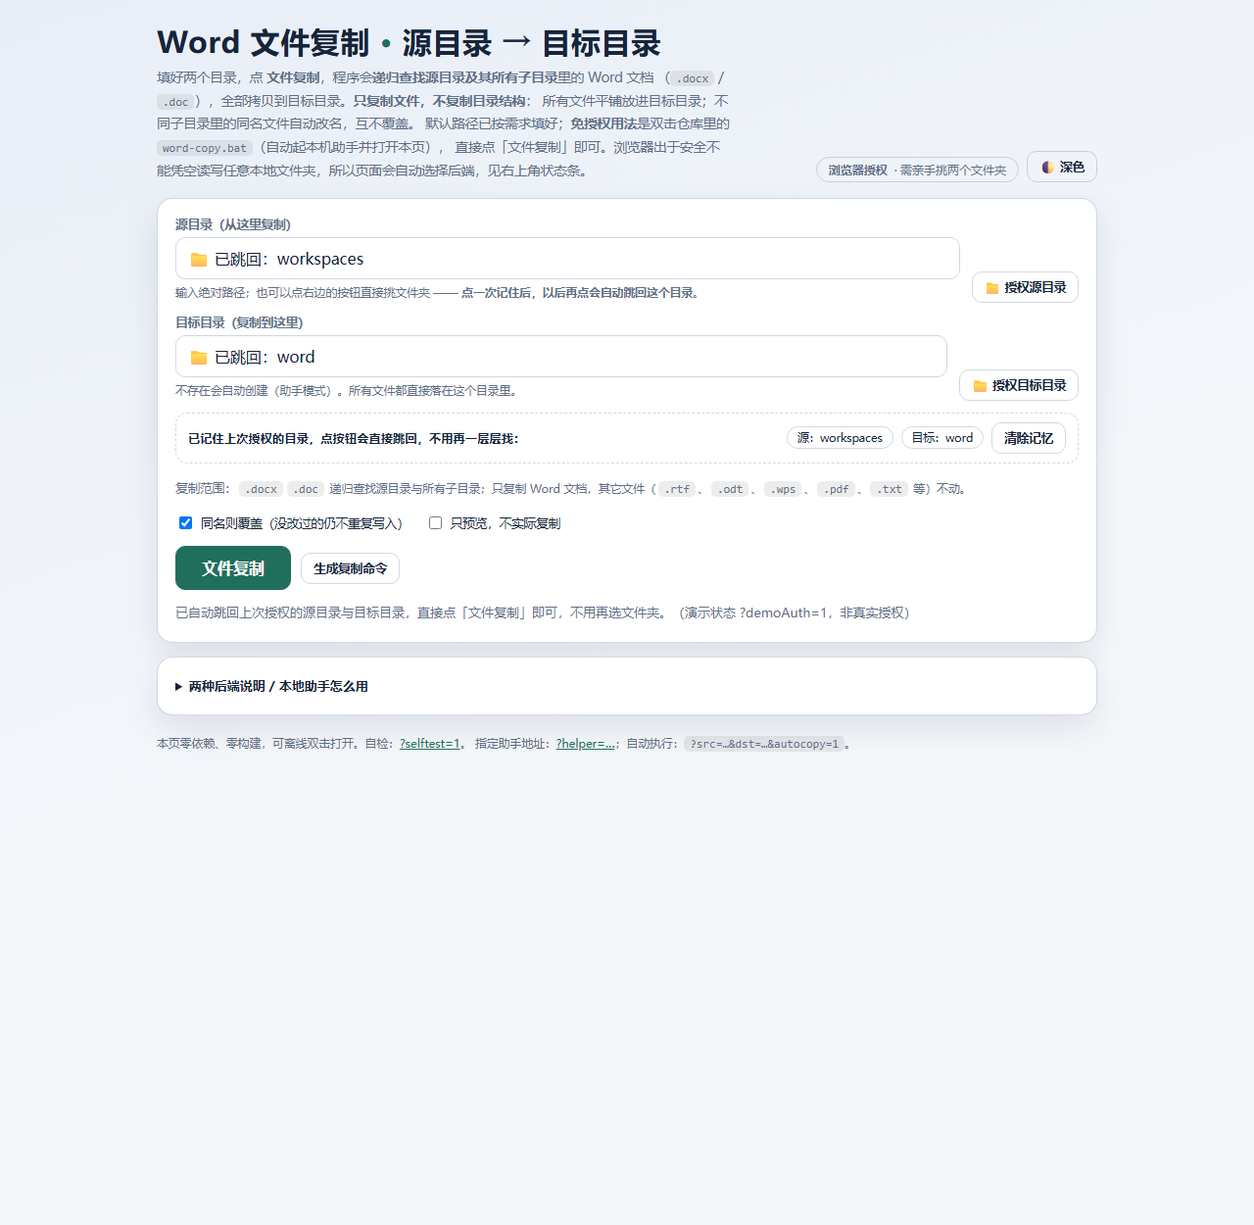
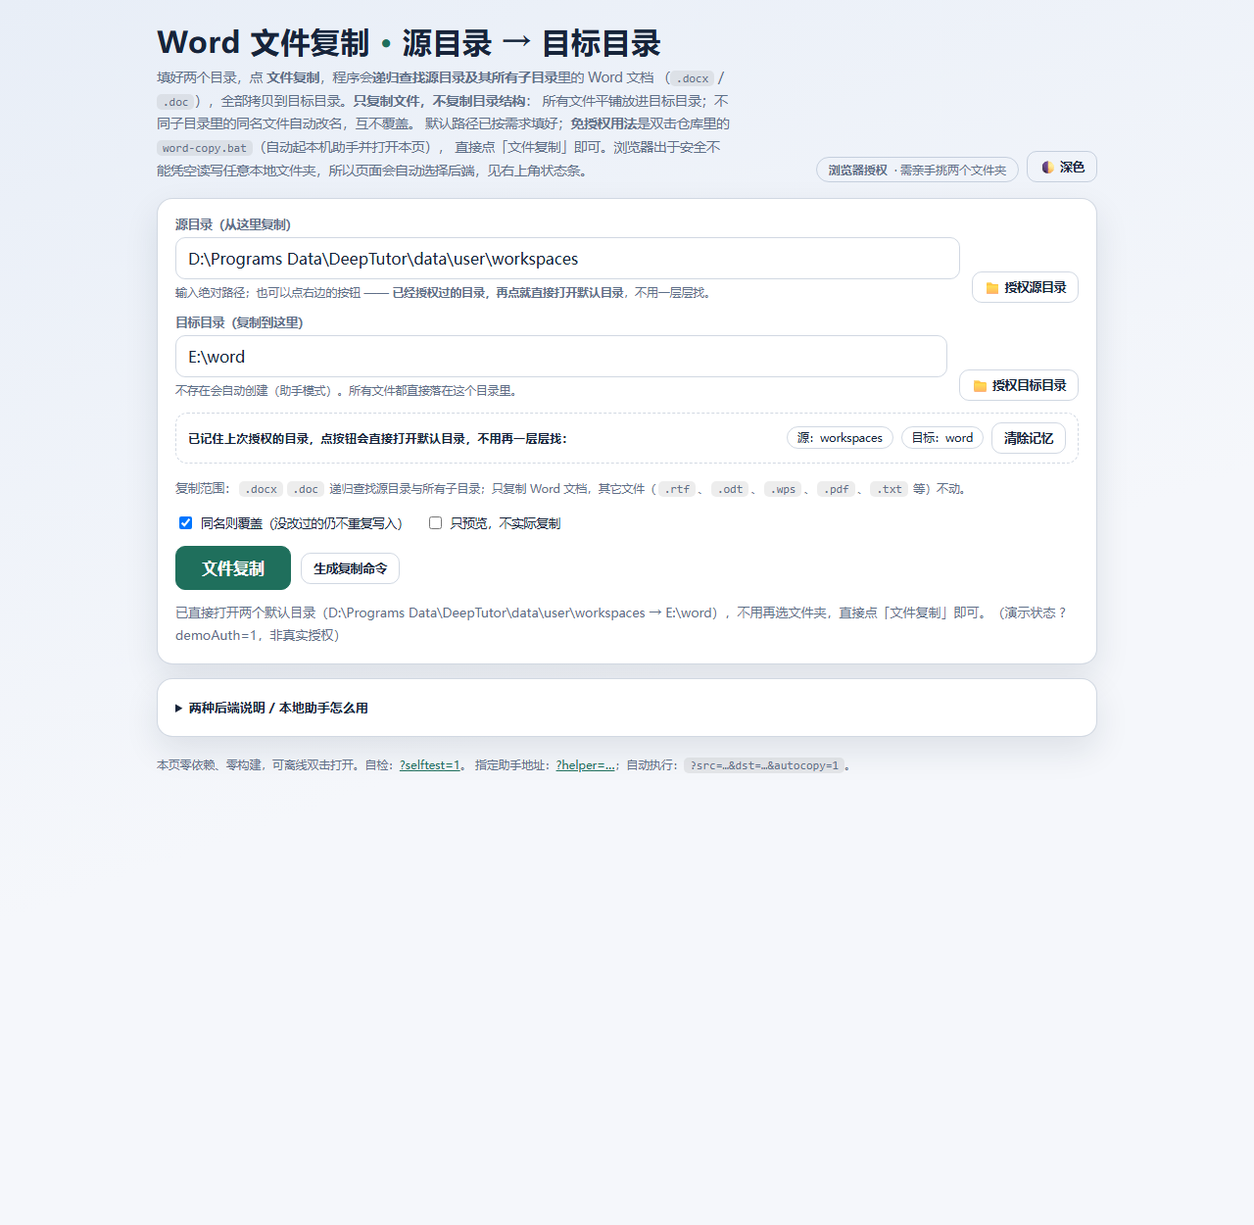
fix(word-copy): 点授权按钮必须有反应（修 file:// 下 IndexedDB 永不回调）
「点击授权目录按钮没有反应」—— 本机复现出两个真问题：

1) file:// 双击打开页面时（README 推荐的主用法），Chromium 的 IndexedDB open
   永远不回调。老代码把「记住目录」的存储写在选完目录后的主链路上，界面更新要等
   idbPut 落定，于是选完文件夹后什么都不发生 —— 看起来就是「点了没反应」。
   - 现在选完目录先更新句柄、输入框与状态条，再顺手写存储（失败/超时都不影响本次）
   - 所有 idb 调用带 1.2s 超时（open/get/put/delete 与 onblocked），restoreAuth
     兜底吞掉未处理拒绝，页面不会卡在「等待操作。」

2) 上一版把「从没授权过」时的点击改成只出说明、不弹选择器，用户感知同样是「没反应」。
   现在点按钮立刻弹系统选择器（浏览器安全上第一次必须亲手授权，无法凭空按路径打开），
   同时把默认目录与「双击 word-copy.bat 免授权直达」的做法标出来。

3) 顺带修一个同类手势问题：记住的目录失效时，代码在 await 之后再调 showDirectoryPicker，
   已脱离用户手势必然被浏览器拒（SecurityError: Must be handling a user gesture）。
   现在给说明 + 「重新选择文件夹」入口，点入口时才是新手势；取消选择后的状态条也
   不再停留在「选择器已打开」。

验证：页内自检 86/86（新增「存储卡住时选完目录界面照样更新」的回归防线 —— 把
indexedDB 换成永不回调的假对象，选完目录仍立刻更新；失效目录走说明 + 新手势 2 项）；
tools\word-copy-check.ps1 58/58（新增存储超时与「先更新界面再写存储」的结构断言）。
改前/改后同场景截图与说明态画面已更新。

diff --git a/word-copy.html b/word-copy.html
@@ -191,9 +191,9 @@ a{color:var(--accent)}
       所以改用「大小相同 + 目标不比源旧」。取消「同名则覆盖」后同名文件一律跳过。</p>
     <p><b>点授权按钮直接打开默认目录</b>：已经授权过的目录会被记住（存在浏览器 IndexedDB 里），
       以后再点同一个按钮<b>直接打开默认目录</b>（就是输入框里那个路径，或它下面的子目录），不再弹选择器。
-      还没授权过时，浏览器不允许网页按路径直接打开本地文件夹 —— 页面会先把两个默认目录和「一步免授权」的做法摆出来
-      （双击 <code>word-copy.bat</code>），手动选择入口也留在提示里，不让你被直接丢进系统选择框。
-      记住的目录被移动或权限被收回，会自动退回系统选择器重选一次。想主动换目录：按住 <kbd>Shift</kbd> 再点按钮，
+      第一次点还是会弹系统选择器 —— 浏览器安全上不允许网页凭空按路径打开文件夹，必须亲手授权一次；
+      页面会同时把默认目录和「双击 <code>word-copy.bat</code> 免授权直达」的做法标出来，选完目录界面立刻更新，
+      不会卡在存储上。记住的目录被移动或权限被收回，会自动退回系统选择器重选一次。想主动换目录：按住 <kbd>Shift</kbd> 再点按钮，
       或点记忆条上的「清除记忆」。</p>
   </details>
 
@@ -461,36 +461,50 @@ function retryDetect(){
 
 /* ---------- 浏览器授权模式（递归查找 Word 文件，平铺复制） ---------- */
 /* 授权过的目录记在 IndexedDB 里：下次点同一个按钮会自动跳回那个目录，
-   不用再在系统选择器里一层层找。选择器本身也带上次目录作为起点。 */
-var IDB_NAME = 'word-copy-auth', IDB_STORE = 'handles';
+   不用再在系统选择器里一层层找。选择器本身也带上次目录作为起点。
+   注意：file:// 双击打开时 Chromium 的 IndexedDB 可能永远不回调，
+   所以所有存储调用都必须带超时，且界面更新绝不能等存储落定。 */
+var IDB_NAME = 'word-copy-auth', IDB_STORE = 'handles', IDB_TIMEOUT = 1200;
 function idb(mode){
   return new Promise(function(res, rej){
     if (!window.indexedDB) return rej(new Error('no indexeddb'));
-    var r = indexedDB.open(IDB_NAME, 1);
+    var settled = false;
+    var timer = setTimeout(function(){
+      if (settled) return;
+      settled = true; rej(new Error('idb-timeout'));   /* file:// 下常见：不回调，超时后走「不记忆」路径 */
+    }, IDB_TIMEOUT);
+    function ok(db){ if (settled) return; settled = true; clearTimeout(timer); res(db); }
+    function bad(e){ if (settled) return; settled = true; clearTimeout(timer); rej(e || new Error('idb open failed')); }
+    var r;
+    try { r = indexedDB.open(IDB_NAME, 1); } catch (e) { return bad(e); }
     r.onupgradeneeded = function(){ if (!r.result.objectStoreNames.contains(IDB_STORE)) r.result.createObjectStore(IDB_STORE); };
-    r.onsuccess = function(){ res(r.result); };
-    r.onerror = function(){ rej(r.error || new Error('idb open failed')); };
+    r.onsuccess = function(){ ok(r.result); };
+    r.onerror = function(){ bad(r.error); };
+    r.onblocked = function(){ bad(new Error('idb blocked')); };
   });
 }
+function withTimeout(p, ms){
+  return Promise.race([p, new Promise(function(res, rej){ setTimeout(function(){ rej(new Error('idb-timeout')); }, ms); })]);
+}
 function idbPut(key, val){
-  return idb().then(function(db){ return new Promise(function(res, rej){
+  return withTimeout(idb().then(function(db){ return new Promise(function(res, rej){
     var tx = db.transaction(IDB_STORE, 'readwrite');
     tx.objectStore(IDB_STORE).put(val, key);
     tx.oncomplete = function(){ res(true); }; tx.onerror = function(){ rej(tx.error); };
-  }); });
+  }); }), IDB_TIMEOUT);
 }
 function idbGet(key){
-  return idb().then(function(db){ return new Promise(function(res, rej){
+  return withTimeout(idb().then(function(db){ return new Promise(function(res, rej){
     var rq = db.transaction(IDB_STORE, 'readonly').objectStore(IDB_STORE).get(key);
     rq.onsuccess = function(){ res(rq.result || null); }; rq.onerror = function(){ rej(rq.error); };
-  }); });
+  }); }), IDB_TIMEOUT);
 }
 function idbDel(key){
-  return idb().then(function(db){ return new Promise(function(res, rej){
+  return withTimeout(idb().then(function(db){ return new Promise(function(res, rej){
     var tx = db.transaction(IDB_STORE, 'readwrite');
     tx.objectStore(IDB_STORE).delete(key);
     tx.oncomplete = function(){ res(true); }; tx.onerror = function(){ rej(tx.error); };
-  }); });
+  }); }), IDB_TIMEOUT);
 }
 function askPermission(handle, mode){
   if (!handle.queryPermission) return Promise.resolve('granted');
@@ -554,14 +568,20 @@ function pickDir(which){
         }
       });
     }).catch(function(){
-      setStatus('上次记的目录已经不可用（被移动或权限被收回），重新选一个。');
-      return openPicker(which, mode, null);
+      /* 记住的目录不可用：这里已经不在用户手势里了，直接调选择器会被浏览器拒绝，
+         所以给说明 + 手选入口（点入口时才是新手势），并说清原因 */
+      state.pendingPick = which;
+      showHelperHint('上次记住的目录已经不可用，需要你重新选一次：');
+      $('hintManual').hidden = false;
+      $('hintManual').textContent = '重新选择' + fieldLabel(which) + '文件夹';
+      setStatus('上次记的' + fieldLabel(which) + '目录已经不可用（被移动或权限被收回），点提示里的「重新选择' +
+        fieldLabel(which) + '文件夹」重选一次；默认目录是 ' + want + '。');
+      return Promise.resolve();
     });
   }
-  /* 还没授权过：浏览器不能按路径直接打开本地文件夹（安全限制），
-     先把默认目录与「一步免授权」的做法说清楚，手动选择入口留在提示里。 */
+  /* 还没授权过：立刻弹选择器让点击有反应，同时把默认目录与「一步免授权」的做法摆出来 */
   showDefaultNotice(which, want);
-  return Promise.resolve();
+  return openPicker(which, mode, null);
 }
 /* 默认目录：?src= / ?dst= 覆盖，否则用页面内置的默认值 */
 function defaultDirFor(which){ return Q.get(which) || (which === 'src' ? DEFAULT_SRC : DEFAULT_DST); }
@@ -578,30 +598,37 @@ function handleReachesDefault(handle, want){
   if (!name) return false;
   return normPath(want).split('/').some(function(seg){ return seg.toLowerCase() === String(name).toLowerCase(); });
 }
-/* 没授权过时点授权按钮：不直接弹系统选择框，先说明默认目录与免授权一步做法，手选入口放在提示里 */
+/* 没授权过时点授权按钮：立刻弹选择器（点击必须有反应），同时把默认目录与免授权一步做法摆出来 */
 function showDefaultNotice(which, want){
   state.pendingPick = which;
-  showHelperHint('浏览器不能直接按路径打开本地文件夹；先启动本机助手就能直接用默认目录：');
+  showHelperHint('浏览器不能凭空按路径打开本地文件夹；想以后点一下就直达默认目录，先用一次本机助手：');
   $('hintManual').hidden = false;
-  $('hintManual').textContent = '仍然手动选择' + fieldLabel(which) + '文件夹';
-  setStatus('默认' + fieldLabel(which) + '目录：' + want + '。浏览器不允许网页按路径打开文件夹；' +
-    '双击上面的 word-copy.bat（或先启动本机助手）后，再点这个按钮就会直接用默认目录 —— 不授权、不弹选择框。' +
-    '想现在就手选，点提示里的「仍然手动选择' + fieldLabel(which) + '文件夹」。');
+  $('hintManual').textContent = '重新打开' + fieldLabel(which) + '选择器';
+  setStatus('默认' + fieldLabel(which) + '目录：' + want + '。系统选择器已打开，请在里面选到它（选过一次后就会被记住，' +
+    '以后点这个按钮直接打开默认目录、不再弹选择器）。更省事的做法：双击上面的 word-copy.bat 起本机助手，' +
+    '两个默认目录免授权直接用。选错了想重选，点提示里的「重新打开' + fieldLabel(which) + '选择器」。');
   try { $('helperHint').scrollIntoView({ block: 'nearest' }); } catch (e) {}
 }
 function openPicker(which, mode, startHandle){
   var opt = { id: 'wc-' + which, mode: mode };
   if (startHandle) opt.startIn = startHandle;      /* 选择器从上次那个目录开始 */
   return window.showDirectoryPicker(opt).then(function(h){
+    /* 界面先更新：file:// 下 IndexedDB 可能不回调，绝不让「点了没反应」回来 */
     state[which + 'Handle'] = h;
-    return remember(which, h).then(function(){
-      $('hintManual').hidden = true;
-      $(which).value = '📁 已授权：' + (h.name || '所选文件夹');
-      setStatus('已授权' + (which === 'src' ? '源' : '目标') + '目录：' + (h.name || '') +
-        '，已记住，下次点这个按钮会直接打开它（默认目录就是它时，输入框会保留完整路径）。');
-    });
+    $('hintManual').hidden = true;
+    $(which).value = '📁 已授权：' + (h.name || '所选文件夹');
+    setStatus('已授权' + fieldLabel(which) + '目录：' + (h.name || '') +
+      '，现在可以点「文件复制」。' + (h === startHandle ? '' : '下次点这个按钮会直接打开它（默认目录就是它时，输入框会保留完整路径）。'));
+    return remember(which, h).catch(function(){ /* 存不了也不影响本次使用（file:// 常见） */ });
   }).catch(function(e){
-    if (e && e.name !== 'AbortError') setStatus('授权失败：' + e.message, true);
+    if (e && e.name === 'AbortError'){
+      /* 用户按了取消：说明别留在「选择器已打开」上，默认目录与免授权做法仍要说清，入口保持可用 */
+      var wd = targetDirFor(which);
+      setStatus('已取消选择。默认' + fieldLabel(which) + '目录是 ' + wd + '；想再选一次点提示里的「' + $('hintManual').textContent + '」，' +
+        '不想选文件夹就双击 word-copy.bat 起本机助手，两个默认目录免授权直接用。');
+      return;
+    }
+    setStatus('授权失败：' + e.message, true);
   });
 }
 function restoreAuth(){
@@ -619,7 +646,9 @@ function restoreAuth(){
       renderRemembered();
       authRestored = !!(state.srcHandle && state.dstHandle);
       if (authRestored && state.mode !== 'helper') browserModeStatus();
-    });
+    })
+    /* 兜底：file:// 下存储链路若出现未处理拒绝，这里必须吞掉，不能让页面停在「等待操作。」什么都不发生 */
+    .catch(function(){ });
 }
 var authRestored = false;
 function browserModeStatus(){
@@ -771,12 +800,10 @@ $('memClear').addEventListener('click', function(){
 });
 $('memSrc').addEventListener('click', function(){ state.forcePick.src = true; pickDir('src'); });
 $('memDst').addEventListener('click', function(){ state.forcePick.dst = true; pickDir('dst'); });
-/* 没授权过时点授权按钮只给说明，手选入口在这里 */
+/* 提示里的「重新选择/重新打开」入口：点了才开选择器（这是新手势，不会被浏览器拒），不带可能失效的旧句柄 */
 $('hintManual').addEventListener('click', function(){
   var which = state.pendingPick || 'src';
-  var remembered = state.remembered[which];
-  if (remembered && remembered.__demo) remembered = null;
-  return openPicker(which, which === 'dst' ? 'readwrite' : 'read', remembered);
+  return openPicker(which, which === 'dst' ? 'readwrite' : 'read', null);
 });
 $('hintRetry').addEventListener('click', retryDetect);
 $('hintCopy').addEventListener('click', function(){
@@ -961,6 +988,7 @@ function selftest(){
 
   var granted = { name: 'word', kind: 'dir', queryPermission: function(){ return Promise.resolve('granted'); } };
   var hadPicker = window.showDirectoryPicker, pickedCalled = 0;
+  var hadIDB = window.indexedDB;
   window.showDirectoryPicker = function(){ pickedCalled++; return Promise.reject(new DOMException('cancel', 'AbortError')); };
   var denied = { name: 'gone', kind: 'dir', queryPermission: function(){ return Promise.resolve('prompt'); },
     requestPermission: function(){ return Promise.resolve('denied'); } };
@@ -1007,22 +1035,29 @@ function selftest(){
     state.remembered.dst = null; state.dstHandle = null; state.forcePick.src = false;
     state.remembered.src = null; state.srcHandle = null; $('src').value = DEFAULT_SRC;
     hideHelperHint(); $('hintManual').hidden = true; pickedCalled = 0;
-    return Ta('没授权过时点授权按钮不直接弹选择框', pickDir('src').then(function(){ return pickedCalled === 0; }));
+    return Ta('没授权过时点授权按钮立刻弹选择器（点击必有反应）', pickDir('src').then(function(){ return pickedCalled === 1; }));
   })
   .then(function(){
-    return Ta('没授权过时说明默认目录与免授权一步做法', Promise.resolve().then(function(){
+    return Ta('没授权过时同时说明默认目录与免授权一步做法', Promise.resolve().then(function(){
       var s = $('status').textContent;
       return s.indexOf(DEFAULT_SRC) >= 0 && s.indexOf('word-copy.bat') >= 0 && state.pendingPick === 'src';
     }));
   })
   .then(function(){
-    return Ta('说明里给出手动选择入口', Promise.resolve().then(function(){
+    return Ta('说明里保留手动选择入口', Promise.resolve().then(function(){
       return $('hintManual').hidden === false && $('hintManual').textContent.indexOf('源') >= 0;
     }));
   })
   .then(function(){
-    return Ta('点手动选择入口才弹系统选择框', Promise.resolve().then(function(){
-      pickedCalled = 0; $('hintManual').click(); return pickedCalled === 1;
+    /* 回归防线：file:// 下 IndexedDB 的 open 可能永远不回调 —— 选完目录界面必须先更新，不等存储 */
+    var hung = { open: function(){ return {}; } };   /* onsuccess/onerror 都不触发，模拟 file:// 卡死 */
+    try { Object.defineProperty(window, 'indexedDB', { value: hung, configurable: true, writable: true }); } catch (e) {}
+    window.showDirectoryPicker = function(){ return Promise.resolve({ name: '合同', kind: 'dir' }); };
+    return Ta('存储卡住时选完目录界面照样更新', pickDir('src').then(function(){
+      Object.defineProperty(window, 'indexedDB', { value: hadIDB, configurable: true, writable: true });
+      window.showDirectoryPicker = function(){ pickedCalled++; return Promise.reject(new DOMException('cancel', 'AbortError')); };
+      state.srcHandle = null; state.remembered.src = null;
+      return $('src').value.indexOf('已授权') >= 0 && $('status').textContent.indexOf('合同') >= 0;
     }));
   })
   .then(function(){
@@ -1034,8 +1069,16 @@ function selftest(){
   .then(function(){
     state.dstHandle = null;
     state.remembered.src = denied; state.forcePick.src = false; pickedCalled = 0;
-    return Ta('记住的目录不可用时回到重新选择', pickDir('src').then(function(){
-      return pickedCalled === 1 && $('status').textContent.indexOf('重新选一个') >= 0;
+    hideHelperHint(); $('hintManual').hidden = true;
+    return Ta('记住的目录不可用时给出重选说明（不在手势里不硬弹选择器）', pickDir('src').then(function(){
+      var s = $('status').textContent;
+      return pickedCalled === 0 && s.indexOf('不可用') >= 0 && s.indexOf('重新选择源文件夹') >= 0 &&
+        $('hintManual').hidden === false && $('hintManual').textContent.indexOf('重新选择源文件夹') >= 0;
+    }));
+  })
+  .then(function(){
+    return Ta('不可用时点重选入口才弹选择器', Promise.resolve().then(function(){
+      pickedCalled = 0; $('hintManual').click(); return pickedCalled === 1;
     }));
   })
   .then(function(){
@@ -1104,10 +1147,12 @@ window.wordcopy = {
     $('dst').value = DEFAULT_DST;
     setStatus('已直接打开两个默认目录（' + DEFAULT_SRC + ' → ' + DEFAULT_DST + '），不用再选文件夹，直接点「文件复制」即可。（演示状态 ?demoAuth=1，非真实授权）');
   }, 300);
-  /* ?demoNotice=1：展示「还没授权过、点授权按钮」时的说明态（不探测助手、不弹选择框、不写入） */
+  /* ?demoNotice=1：展示「还没授权过、点授权按钮」时的说明态（不探测助手、不弹选择框、不写入）。
+     真点击时系统选择器会同时打开；演示态只画说明部分，并在句尾注明。 */
   if (Q.get('demoNotice') === '1') setTimeout(function(){
     state.mode = 'browser'; setBackend();
     showDefaultNotice('src', defaultDirFor('src'));
+    $('status').textContent += '（演示状态 ?demoNotice=1：真实点击时系统选择器会同时打开）';
   }, 300);
   if (Q.get('cmd') === '1') setTimeout(function(){ $('cmdBtn').click(); }, 300);
   if (Q.get('selftest') === '1') setTimeout(selftest, 150);

diff --git a/README.md b/README.md
@@ -30,8 +30,10 @@
 - **点授权按钮直接打开默认目录**：已经授权过的目录会被记住（存在浏览器 IndexedDB 里），
   以后再点「授权源目录 / 授权目标目录」**直接打开默认目录** —— 输入框保留完整默认路径，不再弹选择器；
   记住的目录只是默认目录的上层时，会自动进到那一层；记的不是默认目录（名字接不上）时按老规矩跳回它本身。
-  浏览器安全上不允许网页按路径凭空打开本地文件夹，所以**从没授权过**时点按钮不会把你直接丢进系统选择框，
-  而是先说明默认目录是哪两个、怎么用 `word-copy.bat` 一步免授权，并把「仍然手动选择文件夹」留在提示里。
+  第一次点仍会弹系统选择器 —— 浏览器安全上不允许网页凭空按路径打开文件夹，必须亲手授权一次；
+  页面会同时把默认目录和「双击 `word-copy.bat` 免授权直达」的做法标出来，**选完目录界面立刻更新，
+  不等存储落定**（`file://` 双击打开时 Chromium 的 IndexedDB 可能永远不回调，老版本因此出现
+  「点了授权按钮没反应」；现在所有存储调用都带 1.2 秒超时，卡住也只影响「下次记忆」，不影响本次使用）。
   记住的目录被移动或权限被收回时，自动退回系统选择器重选一次。想主动换目录就按住 <kbd>Shift</kbd> 再点按钮，
   或点记忆条上的「清除记忆」。
 - 目标目录不存在时自动创建（助手模式）。
@@ -71,7 +73,7 @@
 
 ## 验证
 
-- `powershell -ExecutionPolicy Bypass -File tools\word-copy-check.ps1`：**56 项断言全部通过**
+- `powershell -ExecutionPolicy Bypass -File tools\word-copy-check.ps1`：**58 项断言全部通过**
   （递归只取 `.docx`/`.doc`、排除 `~$` 与隐藏文件、平铺且目标不产生子目录、同名不同目录自动改名不覆盖、
   重复拷贝跳过且**不触碰目标时间戳**、内容有差才覆盖、不勾选覆盖时一律跳过、预览不落盘不建目录、目标缺失时自动创建、
   四类入参校验报错，以及助手 HTTP 的 `/api/status` / `/api/copy` / 400 错误通道；
@@ -82,13 +84,14 @@
   另加**直接打开默认目录**两组：`?demoAuth=1` 核对输入框保留完整默认路径、状态条写明已直接打开两个默认目录、
   按钮提示与说明文案；`?demoNotice=1` 核对没授权过时的说明态给出默认目录、说明浏览器不能按路径直接打开、
   指向 `word-copy.bat` 一步免授权，并显示手动选择入口）。
-- `word-copy.html?selftest=1`：**85 项页内断言全部通过**（含内核 15 个函数齐备、递归清单与平铺改名规则、
+- `word-copy.html?selftest=1`：**86 项页内断言全部通过**（含内核 15 个函数齐备、递归清单与平铺改名规则、
   默认目录值、预览用词与实复制用词区分、免授权提示控件与 `word-copy.bat` 路径推导、控件齐备与文案；
-  「不重复写入」的严格/宽松两种判定各 8 项；「点授权按钮直接打开默认目录」用假目录句柄串起 14 项异步断言 ——
+  「不重复写入」的严格/宽松两种判定各 8 项；「点授权按钮直接打开默认目录」用假目录句柄串起 15 项异步断言 ——
   能按输入路径进到子目录、名字接不上时退回授权目录、记住的就是默认目录时不弹选择器且输入框保留完整默认路径、
-  状态条写明已直接打开、记的不是默认目录时按老规矩跳回、没授权过时点按钮不直接弹选择框而是说明默认目录与
-  免授权做法、提示里的手动选择入口点了才弹选择框、按住 Shift 或点记忆条换目录时直接弹选择器、
-  记住的目录不可用时回到重选）。
+  状态条写明已直接打开、记的不是默认目录时按老规矩跳回、没授权过时点按钮立刻弹选择器（点击必有反应）并同时
+  说明默认目录与免授权做法、**把 IndexedDB 换成永不回调的假对象后选完目录界面照样更新**（「点了没反应」的回归防线）、
+  Shift/记忆条主动换目录直接弹选择器、记住的目录不可用时给重选说明并等新手势（不在手势里硬弹会被浏览器拒）、
+  点重选入口才弹选择器）。
 - 助手 `tools\word-copy-server.ps1` 与检查脚本都是纯 PowerShell，不需要 Node、不需要安装任何东西。
 
 ## 截图
